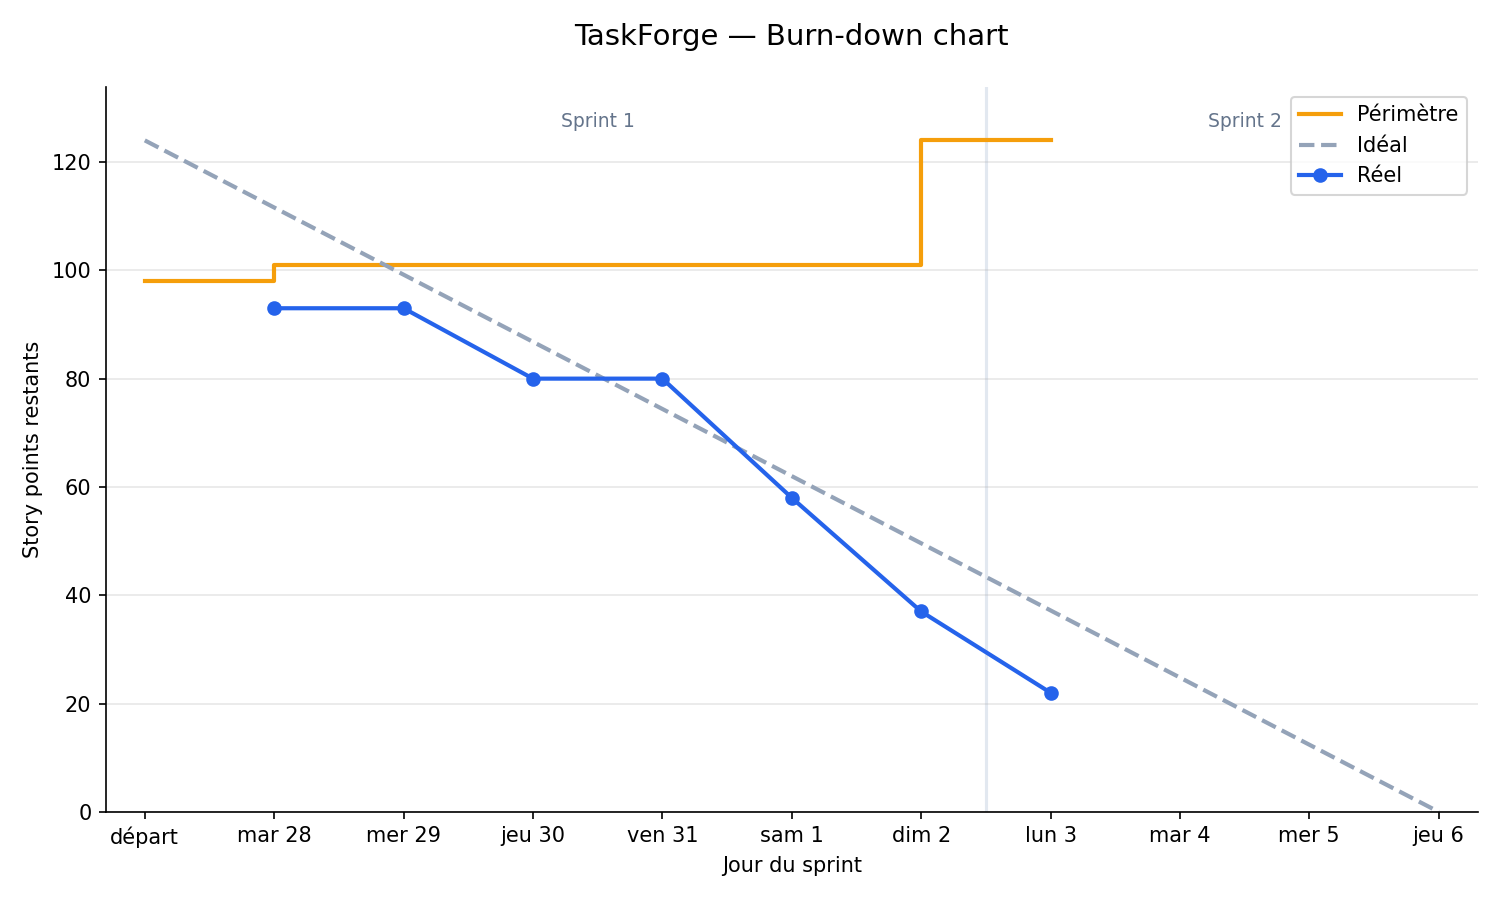
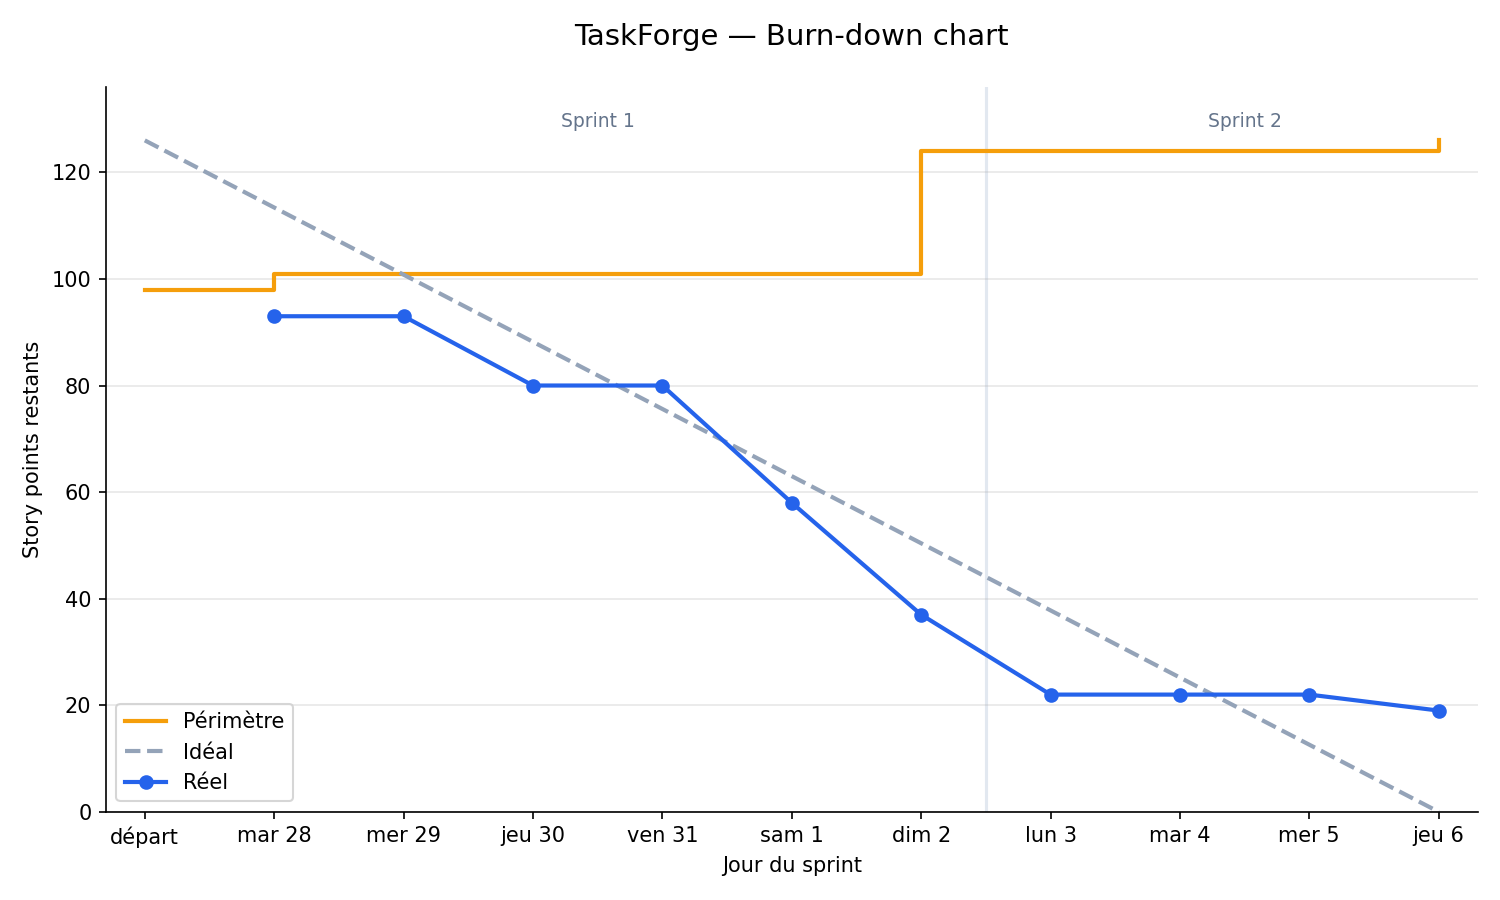
docs: réestime US16, ouvre les jours 8 à 10 et met à jour le burndown

diff --git a/pm/sprint-backlog.md b/pm/sprint-backlog.md
@@ -88,9 +88,11 @@ Tout ce bloc est posé **jour 1-2**, sur une base vide. Rétrofitté jour 8, ça
 |---|---|---|---|
 | US14 | En tant qu'admin, je veux voir les statistiques afin de piloter l'activité | Compteurs tickets ouverts / en cours / résolus | 3 |
 | US15 | En tant qu'admin, je veux voir le temps moyen de résolution afin de mesurer la performance | `avg(resolved_at - created_at)` sur les tickets résolus ; affichage lisible (h/j) | 2 |
-| US16 | En tant qu'admin, je veux visualiser la répartition afin d'identifier les tendances | Graphique simple par priorité et par statut | 3 |
+| US16 | En tant qu'admin, je veux visualiser la répartition afin d'identifier les tendances | Graphique simple par priorité et par statut | ~~3~~ **5** |
 
-**Sous-total : 8 SP**
+**Sous-total : ~~8~~ 10 SP**
+
+> **Réestimée le 06/08, de 3 à 5 SP.** L'intitulé ne parlait que du graphique, mais aucun écran n'affiche `/dashboard/stats` : US14 et US15 ont livré la donnée sans support. US16 porte donc l'écran entier — compteurs, temps moyen, répartition — et non un seul composant. Erreur d'estimation à la planification, corrigée plutôt que dissimulée.
 
 ---
 
@@ -170,11 +172,11 @@ Tout ce bloc est posé **jour 1-2**, sur une base vide. Rétrofitté jour 8, ça
 | EPIC 2 — Tickets | 16 |
 | EPIC 3 — Assignation | 5 |
 | EPIC 4 — Filtres & recherche | 8 |
-| EPIC 5 — Dashboard | 8 |
+| EPIC 5 — Dashboard | 10 |
 | EPIC 8 — Interface utilisateur | 23 |
 | EPIC 6 — Tests | 7 |
 | EPIC 7 — Livrables | 17 |
-| **Total MVP** | **124** |
+| **Total MVP** | **126** |
 | Bonus (hors engagement) | 23 |
 
 **Répartition visée** — Sprint 1 : EPIC 0+1+2 = **56 SP** sur 6 jours (~9 SP/jour) · Sprint 2 : EPIC 3+4+5+6+7+8 = **68 SP** sur 4 jours (~17 SP/jour).
@@ -185,6 +187,7 @@ Tout ce bloc est posé **jour 1-2**, sur une base vide. Rétrofitté jour 8, ça
 |---|---|---|---|
 | 28/07 | +3 | TECH22 (Traefik), demande de l'encadrant | 98 → 101 |
 | 02/08 | +23 | EPIC 8 (interface), oubli d'estimation à la planification | 101 → 124 |
+| 06/08 | +2 | US16 réestimée de 3 à 5 SP — l'écran de dashboard n'existait pas, la story portait plus qu'un graphique | 124 → 126 |
 
 ⚠ **17 SP/jour attendus sur le sprint 2 n'est pas une cadence tenable**, même après une journée à 30 SP le 2 août — celle-ci portait sur du backend posé sur des fondations déjà en place. L'écart sera constaté dans la rétrospective plutôt que résorbé par une coupe du backlog : la décision du 1er août tient, on livre ce qui est livrable et le burndown dit la vérité.
 

diff --git a/pm/daily-logs.md b/pm/daily-logs.md
@@ -130,4 +130,42 @@ Rotation des rôles : casquette PM le matin, dev la journée, QA en fin de journ
 
 ---
 
+## Jour 8 — mardi 4 août 2026
+
+**Rôle du jour** : aucun
+
+- **Fait hier** : US18, US19, US20 et US21 — les quatre écrans fonctionnels, l'EPIC 8 clos
+- **Prévu aujourd'hui** : US16 et TECH14
+- **Réalisé** : rien. Journée non travaillée, indisponibilité personnelle
+- **Blocages** : aucun
+- **SP restants** : 22 / 124
+
+---
+
+## Jour 9 — mercredi 5 août 2026
+
+**Rôle du jour** : aucun
+
+- **Fait hier** : aucune avancée, journée non travaillée
+- **Prévu aujourd'hui** : US16 et TECH14
+- **Réalisé** : rien. Deuxième journée non travaillée consécutive. US16 et TECH14 reportés au jour 10, qui devait être réservé aux livrables
+- **Blocages** : aucun
+- **SP restants** : 22 / 124
+
+---
+
+## Jour 10 — jeudi 6 août 2026
+
+**Rôle du jour** : PM matin / Dev journée / QA soir
+
+- **Fait hier** : aucune avancée, deux journées non travaillées d'affilée
+- **Prévu aujourd'hui** : US16, TECH14, puis le bonus Prometheus + Grafana. Les livrables de l'EPIC 7 sont mis de côté, décision assumée : l'examinateur attend d'abord une démonstration de l'application
+- **Réestimation** : US16 passe de 3 à 5 SP. L'intitulé ne parlait que du graphique, mais aucun écran n'affichait `/dashboard/stats` — US14 et US15 avaient livré la donnée sans support. Périmètre 124 → 126
+- **Réalisé** : US16 — tableau de bord complet. Compteurs cliquables menant à la liste filtrée, temps moyen de résolution, deux graphiques de répartition en SVG. **L'EPIC 5 est clos**, et avec lui tout le fonctionnel hors tests
+- **Choix technique** : graphique en SVG à la main plutôt que Chart.js. La donnée est une répartition sur quatre catégories, pas une série temporelle — une bibliothèque aurait ajouté une dépendance, un rebuild d'image et une intégration Vue pour huit barres horizontales
+- **Blocages** : aucun
+- **SP restants** : 19 / 126
+
+---
+
 <!-- Ajouter une entrée par jour ci-dessous, en suivant le template. -->
